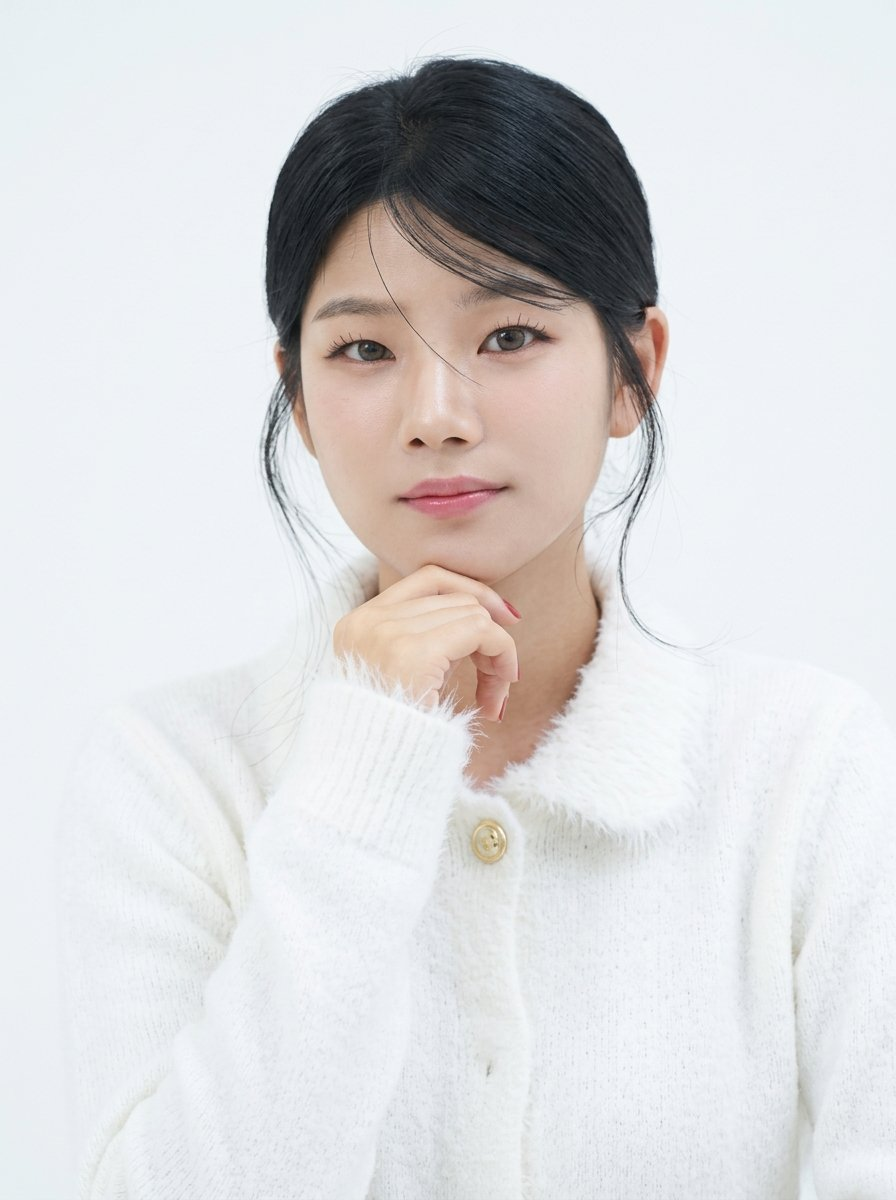
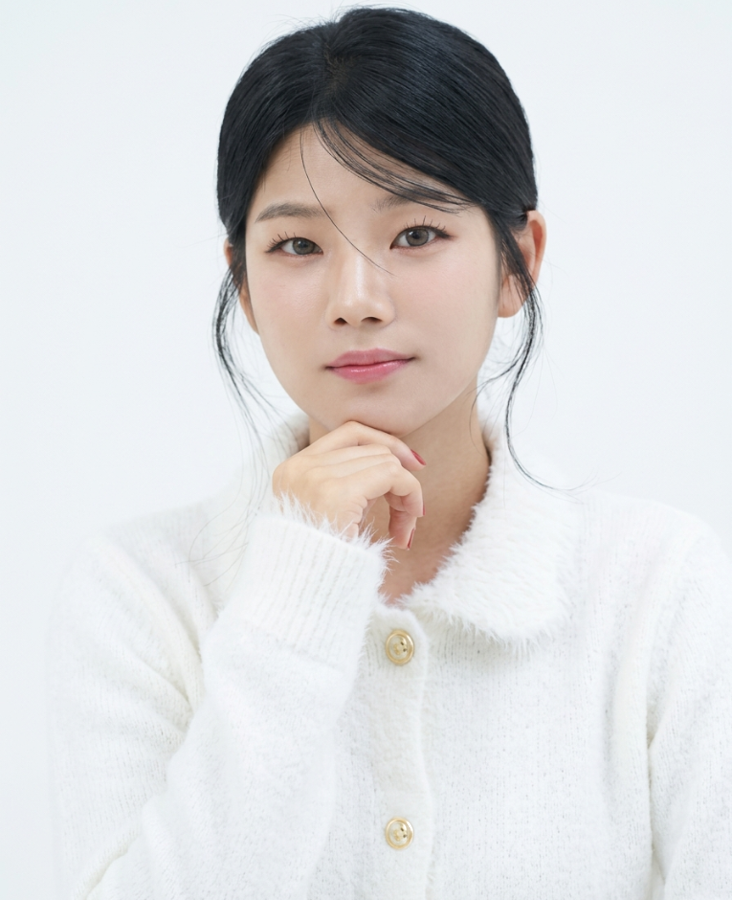
강사 프로필 사진 교체(단추 두 개 정면 컷)
- profile.png를 가경T 정면(단추 2개) 컷으로 교체
- 강사 섹션·강사 페이지·강좌 아바타 img에 ?v=1026 캐시 버전

diff --git a/course.html b/course.html
@@ -147,7 +147,7 @@
 </div>
 </div>
 <div class="bg-surface-container-lowest rounded-2xl border border-outline-variant p-6 flex items-center gap-4">
-<div class="w-14 h-14 rounded-full border-2 border-secondary p-0.5 overflow-hidden shrink-0 bg-surface-container"><img src="profile.png" alt="가경T" class="w-full h-full object-cover object-top rounded-full"/></div>
+<div class="w-14 h-14 rounded-full border-2 border-secondary p-0.5 overflow-hidden shrink-0 bg-surface-container"><img src="profile.png?v=1026" alt="가경T" class="w-full h-full object-cover object-top rounded-full"/></div>
 <div><p class="font-headline-md text-[16px] text-on-surface">가경 T</p><p class="text-[12px] text-on-surface-variant">출제자의 시선으로 국어를 가르칩니다</p><a href="teacher.html" class="text-secondary text-[12px] font-bold hover:underline">강사 소개 →</a></div>
 </div>
 </div>

diff --git a/teacher.html b/teacher.html
@@ -98,7 +98,7 @@
 <div class="max-w-container-max mx-auto px-margin-desktop relative z-10 flex flex-col md:flex-row items-center gap-10">
 <div class="relative shrink-0">
 <div class="w-44 h-44 md:w-52 md:h-52 rounded-full border-[3px] border-secondary p-1.5 overflow-hidden bg-surface-container-lowest">
-<img alt="가경T" class="w-full h-full object-cover object-top rounded-full" src="profile.png"/>
+<img alt="가경T" class="w-full h-full object-cover object-top rounded-full" src="profile.png?v=1026"/>
 </div>
 <div class="absolute bottom-2 right-2 bg-secondary text-on-secondary w-9 h-9 rounded-full flex items-center justify-center shadow-lg"><span class="material-symbols-outlined text-[18px]" style="font-family:'Material Symbols Filled';">&#xef76;</span></div>
 </div>

diff --git a/index.html b/index.html
@@ -627,7 +627,7 @@
     <div class="rv"><span class="kicker">강사 김가경</span>
       <h2 class="sh">출제 경향을, 국어를, 학생의 필요를 아는 강사.</h2></div>
     <div class="tgrid">
-      <div class="tphoto rv"><img src="https://hanti.oreumyak.com/profile.png" alt="국어 강사 김가경"/></div>
+      <div class="tphoto rv"><img src="https://hanti.oreumyak.com/profile.png?v=1026" alt="국어 강사 김가경"/></div>
       <div class="rv">
         <p class="sub2">모의고사를 직접 출제하는 시선으로 국어를 가르칩니다. 감이 아니라 지문의 근거로 읽는 법, 개념이 문제에서 어떻게 변형되는지를 학생이 스스로 판단하도록 훈련합니다.</p>
         <div class="strong">
